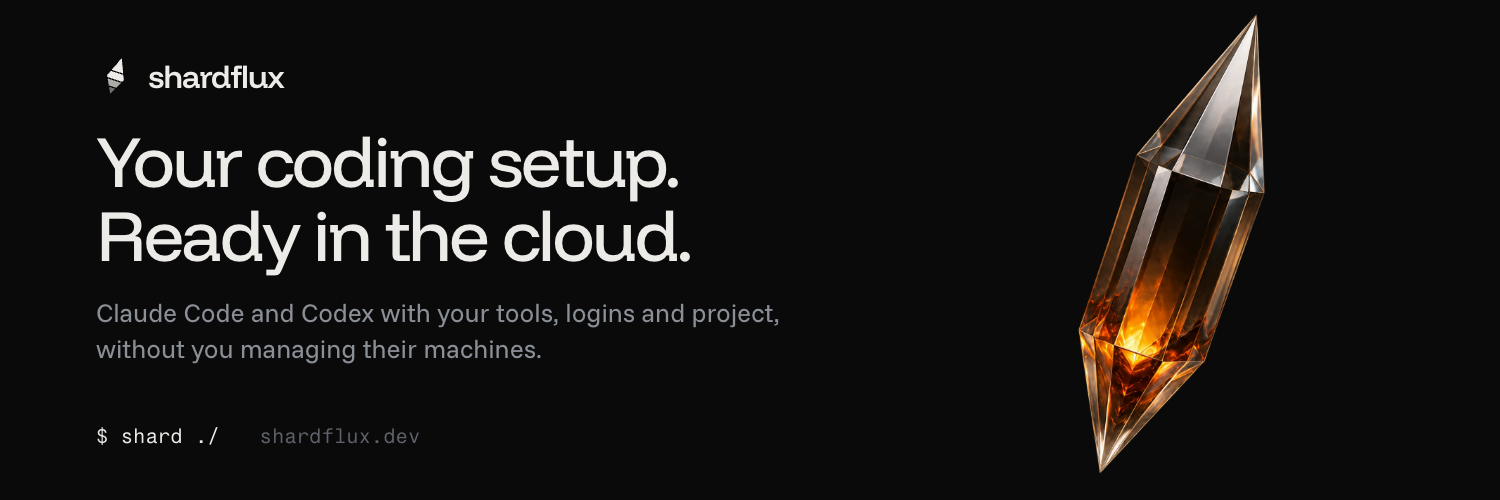
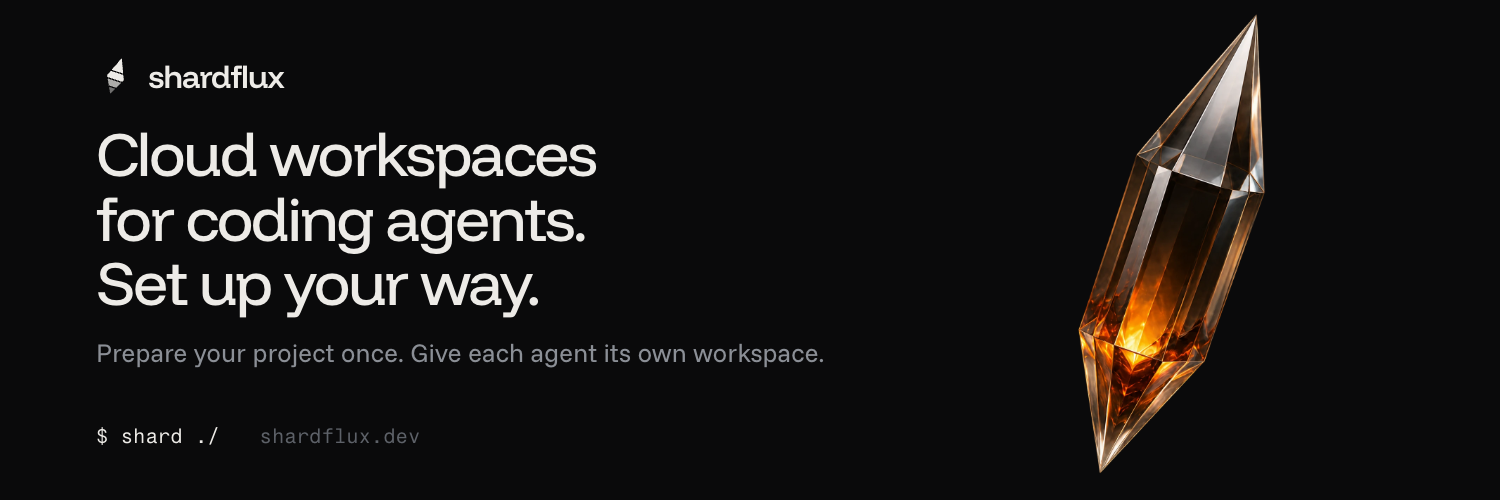
Profile: match the site headline, Cloud workspaces for coding agents

Changed region(s): [[0.0613, 0.27, 0.5213, 0.66], [0.0613, 0.69, 0.552, 0.75]]

diff --git a/profile/README.md b/profile/README.md
@@ -1,10 +1,10 @@
 <a href="https://shardflux.dev">
-  <img src="https://raw.githubusercontent.com/shardfluxdev/.github/main/profile/assets/shardflux-banner.png" alt="Shardflux. Your coding setup. Ready in the cloud." width="1500">
+  <img src="https://raw.githubusercontent.com/shardfluxdev/.github/main/profile/assets/shardflux-banner.png" alt="Shardflux. Cloud workspaces for coding agents. Set up your way." width="1500">
 </a>
 
-### Your coding setup. Ready in the cloud.
+### Cloud workspaces for coding agents. Set up your way.
 
-Shardflux runs your coding agents with your setup, without you managing their machines. Claude Code and Codex work on your project in the cloud with your tools, logins and settings, and keep working when you close your laptop.
+Prepare your project's tools and dependencies once, then reuse them in a separate workspace for each agent. Attach shared files where you choose. Your coding agent can handle the setup, and Claude Code or Codex keeps working when you close your laptop.
 
 ```sh
 npm i -g shardflux
